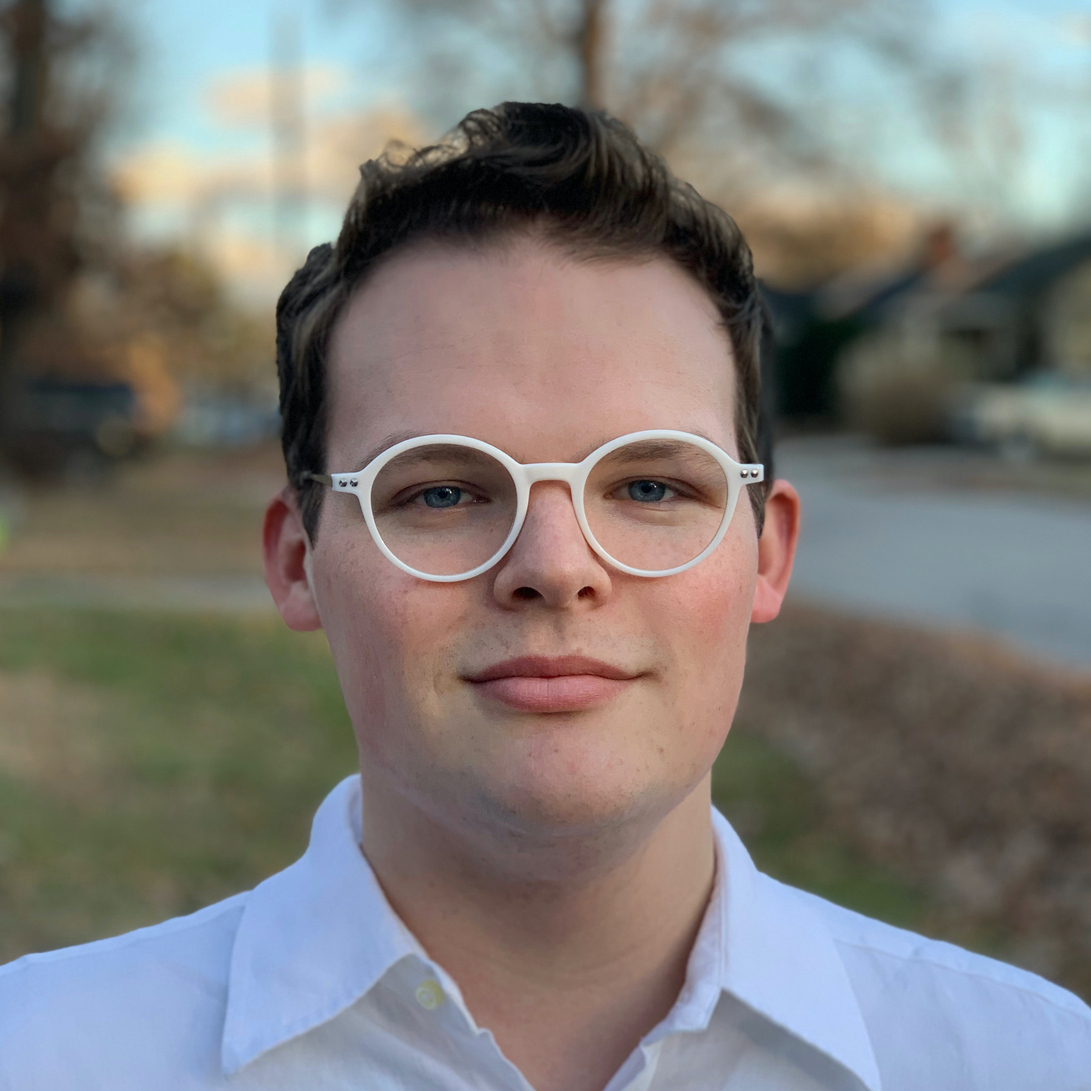
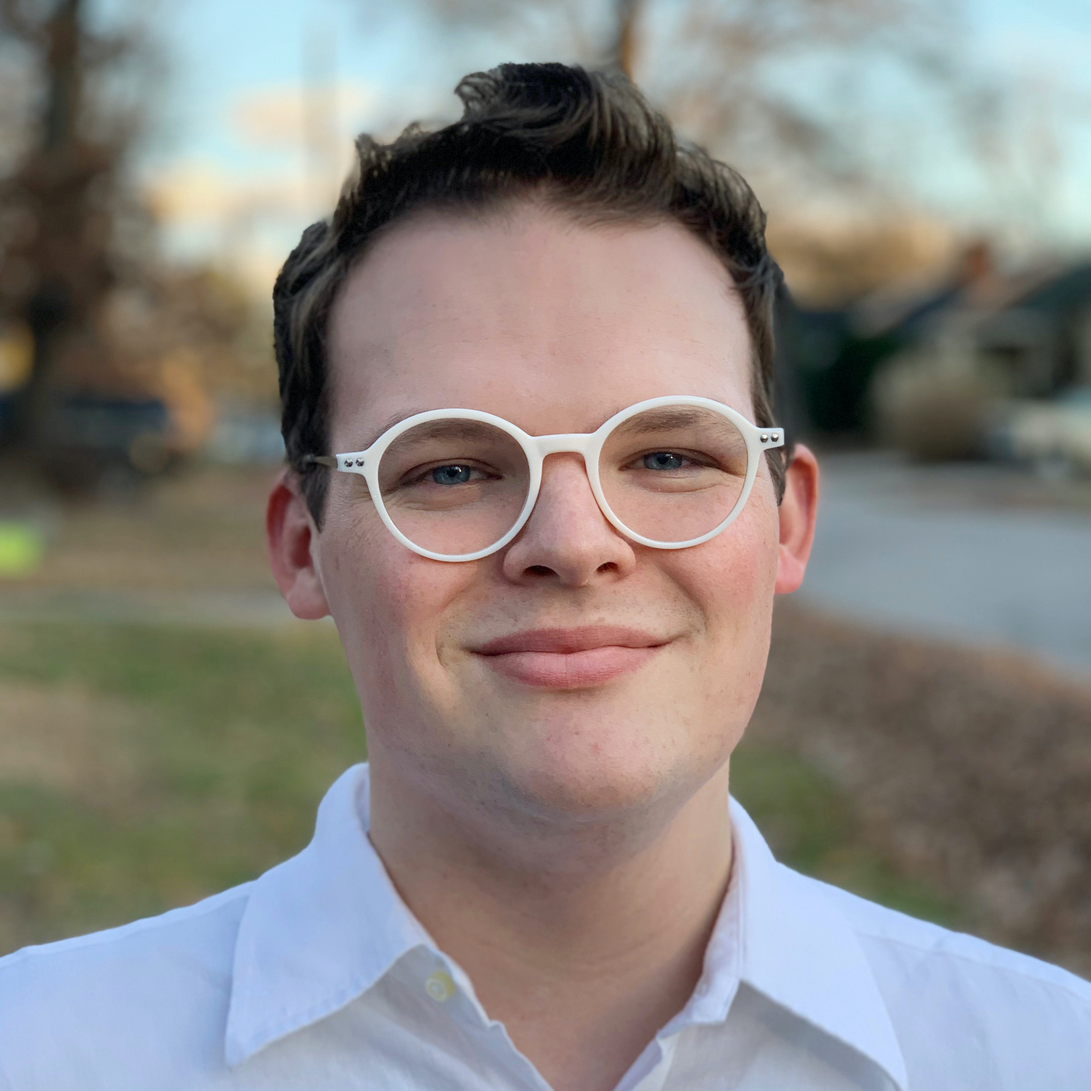
new picture and linkedin link fix

diff --git a/post/pol295/index.html b/post/pol295/index.html
@@ -569,7 +569,7 @@ Nativism is the <em>fulcrum</em> of a wider ideology, and one that allowed Donal
 <div class="media author-card" itemscope itemtype="http://schema.org/Person">
   
   
-  <img class="portrait mr-3" src="/author/admin/avatar_huf14ddfaad0f13ae22418428f3e9bea95_1526760_250x250_fill_q90_lanczos_center.jpg" itemprop="image" alt="Avatar">
+  <img class="portrait mr-3" src="/author/admin/avatar_hu277d8b463ac7a39608cd7c766a7b5aeb_1630562_250x250_fill_q90_lanczos_center.jpg" itemprop="image" alt="Avatar">
   
 
   <div class="media-body">

diff --git a/project/dwarf/index.html b/project/dwarf/index.html
@@ -649,7 +649,7 @@ Future presentations &amp; publications on this topic will be listed here.</p>
 <div class="media author-card" itemscope itemtype="http://schema.org/Person">
   
   
-  <img class="portrait mr-3" src="/author/admin/avatar_huf14ddfaad0f13ae22418428f3e9bea95_1526760_250x250_fill_q90_lanczos_center.jpg" itemprop="image" alt="Avatar">
+  <img class="portrait mr-3" src="/author/admin/avatar_hu277d8b463ac7a39608cd7c766a7b5aeb_1630562_250x250_fill_q90_lanczos_center.jpg" itemprop="image" alt="Avatar">
   
 
   <div class="media-body">

diff --git a/project/astrophotography/index.html b/project/astrophotography/index.html
@@ -638,7 +638,7 @@
 <div class="media author-card" itemscope itemtype="http://schema.org/Person">
   
   
-  <img class="portrait mr-3" src="/author/admin/avatar_huf14ddfaad0f13ae22418428f3e9bea95_1526760_250x250_fill_q90_lanczos_center.jpg" itemprop="image" alt="Avatar">
+  <img class="portrait mr-3" src="/author/admin/avatar_hu277d8b463ac7a39608cd7c766a7b5aeb_1630562_250x250_fill_q90_lanczos_center.jpg" itemprop="image" alt="Avatar">
   
 
   <div class="media-body">

diff --git a/project/green_space/index.html b/project/green_space/index.html
@@ -663,7 +663,7 @@
 <div class="media author-card" itemscope itemtype="http://schema.org/Person">
   
   
-  <img class="portrait mr-3" src="/author/admin/avatar_huf14ddfaad0f13ae22418428f3e9bea95_1526760_250x250_fill_q90_lanczos_center.jpg" itemprop="image" alt="Avatar">
+  <img class="portrait mr-3" src="/author/admin/avatar_hu277d8b463ac7a39608cd7c766a7b5aeb_1630562_250x250_fill_q90_lanczos_center.jpg" itemprop="image" alt="Avatar">
   
 
   <div class="media-body">

diff --git a/project/lucky/index.html b/project/lucky/index.html
@@ -665,7 +665,7 @@
 <div class="media author-card" itemscope itemtype="http://schema.org/Person">
   
   
-  <img class="portrait mr-3" src="/author/admin/avatar_huf14ddfaad0f13ae22418428f3e9bea95_1526760_250x250_fill_q90_lanczos_center.jpg" itemprop="image" alt="Avatar">
+  <img class="portrait mr-3" src="/author/admin/avatar_hu277d8b463ac7a39608cd7c766a7b5aeb_1630562_250x250_fill_q90_lanczos_center.jpg" itemprop="image" alt="Avatar">
   
 
   <div class="media-body">

diff --git a/project/observatory/index.html b/project/observatory/index.html
@@ -647,7 +647,7 @@
 <div class="media author-card" itemscope itemtype="http://schema.org/Person">
   
   
-  <img class="portrait mr-3" src="/author/admin/avatar_huf14ddfaad0f13ae22418428f3e9bea95_1526760_250x250_fill_q90_lanczos_center.jpg" itemprop="image" alt="Avatar">
+  <img class="portrait mr-3" src="/author/admin/avatar_hu277d8b463ac7a39608cd7c766a7b5aeb_1630562_250x250_fill_q90_lanczos_center.jpg" itemprop="image" alt="Avatar">
   
 
   <div class="media-body">

diff --git a/project/perspectives/index.html b/project/perspectives/index.html
@@ -636,7 +636,7 @@
 <div class="media author-card" itemscope itemtype="http://schema.org/Person">
   
   
-  <img class="portrait mr-3" src="/author/admin/avatar_huf14ddfaad0f13ae22418428f3e9bea95_1526760_250x250_fill_q90_lanczos_center.jpg" itemprop="image" alt="Avatar">
+  <img class="portrait mr-3" src="/author/admin/avatar_hu277d8b463ac7a39608cd7c766a7b5aeb_1630562_250x250_fill_q90_lanczos_center.jpg" itemprop="image" alt="Avatar">
   
 
   <div class="media-body">

diff --git a/project/urban_sprawl/index.html b/project/urban_sprawl/index.html
@@ -647,7 +647,7 @@
 <div class="media author-card" itemscope itemtype="http://schema.org/Person">
   
   
-  <img class="portrait mr-3" src="/author/admin/avatar_huf14ddfaad0f13ae22418428f3e9bea95_1526760_250x250_fill_q90_lanczos_center.jpg" itemprop="image" alt="Avatar">
+  <img class="portrait mr-3" src="/author/admin/avatar_hu277d8b463ac7a39608cd7c766a7b5aeb_1630562_250x250_fill_q90_lanczos_center.jpg" itemprop="image" alt="Avatar">
   
 
   <div class="media-body">

diff --git a/index.html b/index.html
@@ -350,7 +350,7 @@
 
       
       
-      <img class="portrait" src="/author/admin/avatar_huf14ddfaad0f13ae22418428f3e9bea95_1526760_250x250_fill_q90_lanczos_center.jpg" itemprop="image" alt="Avatar">
+      <img class="portrait" src="/author/admin/avatar_hu277d8b463ac7a39608cd7c766a7b5aeb_1630562_250x250_fill_q90_lanczos_center.jpg" itemprop="image" alt="Avatar">
       
 
       <div class="portrait-title">
